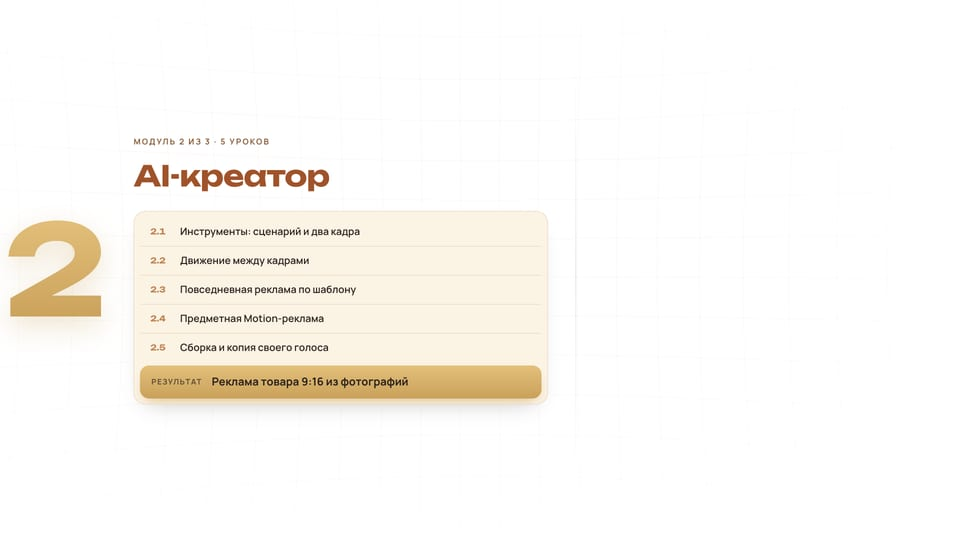
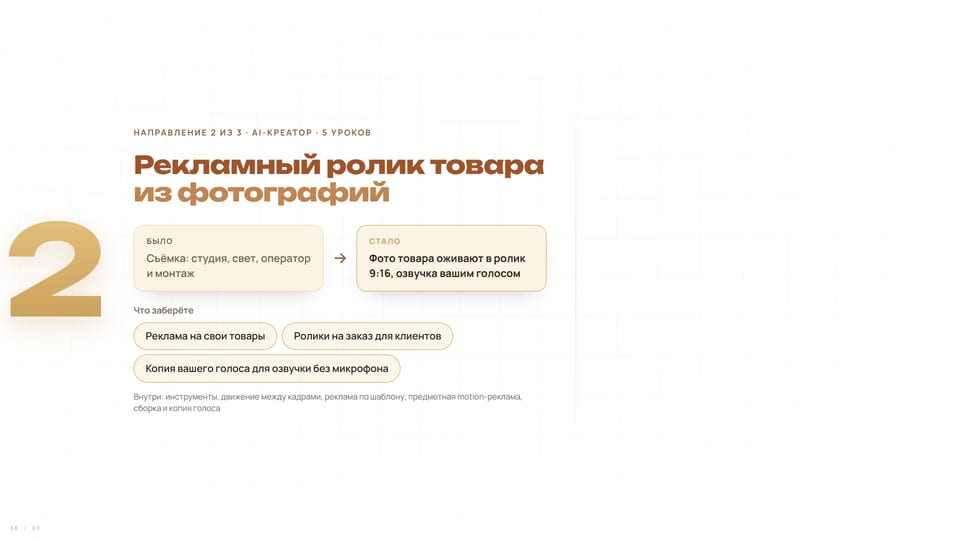
Отчёт по волне 3 и снимки изменённых слайдов
docs/reports/deck_wave3.md: сделанные шаги, проверки, что ждёт ответов Александра и запасные варианты.
Снимки 08, 09, 35, 36, 37, 37w, 53, p3i из сборки без сервера.

Changed region(s): [[0.125, 0.237, 0.5938, 0.7704]]

diff --git a/docs/reports/deck_wave3.md b/docs/reports/deck_wave3.md
@@ -1,0 +1,34 @@
+# Отчёт: волна 3 (5 октября 2026, вечер)
+
+План: `docs/tasks/deck_wave3.md`. Ветка `deck-wave2`, push не делал. localhost не запускал: проверка сборкой `WEBINAR_LOCAL=1 npx next build` и снимками `docs/deck-v2/shoot-offline.mjs` без сервера.
+
+## Сделано
+
+| Шаг | Что | Коммит | Снимок |
+|---|---|---|---|
+| 2 | 08: «1000+» без скобки. 09: «150 роликов по 10 000 ₸, мой темп 5 роликов в день». 53: чип «Разбор работ в общем чате потока». p3i: строка «Приложения и документы под свои задачи: модуль 3 Vibe Production, автоматизации на вайбкодинге.» | e31d86d | `shots/08`, `09`, `53`, `p3i` |
+| 5 | 35–37: слайды «направление» (было → стало, что заберёте, доказательство, состав уроков сноской) вместо списков уроков | 1a41b58 | `shots/35`, `36`, `37` |
+| 6 | 37w: «Что даст обучение именно вам», четыре ответа опроса и строка «Доход не обещаю» | 1a41b58 | `shots/37w` |
+
+Шаги 5 и 6 в одном коммите: один новый файл `slides/directions.tsx` и одна правка порядка в `MontageDeck.tsx`.
+
+## Проверки
+
+- `tsc --noEmit`: в `components/montage-deck` ошибок нет.
+- Сборка проходит. Один запуск из двух упал на скачивании шрифта Unbounded с Google, повтор прошёл: перед эфиром собирать заранее при работающем интернете.
+- Все 69 слайдов сняты без сервера: зона камеры чистая, текст нигде не обрезан, ошибок в консоли нет. Предупреждения только задуманные: 08 (фото уходит за край) и 14 (лента прокручивается).
+- В колоде теперь 69 слайдов: добавлен 37w, номера слайдов после него сдвинулись на один.
+
+## Ждёт ответов Александра
+
+| Шаг | Вопрос | Без ответа к 6 октября 12:00 |
+|---|---|---|
+| 1 | А1: эфир 6 октября (вторник) или 7 октября (среда)? Лендинг пишет 7-е | колода остаётся на 6-м, расхождение с лендингом записано |
+| 3 | А3: 08w, три пропуска в хронологии | шаги 3 и 5 без текста, в шаге 4 «Потом» |
+| 3 | А4: 41, дата доплаты и куда писать после эфира | «Бронь 10 000 ₸ входит в цену обучения. Остальное подскажет менеджер.» |
+| 3 | А5: 44, название рилса, диалоги и заявки | «Мой рилс: 68 комментариев с кодовым словом на 1 773 просмотра» |
+| 3 | А6: p2b, пример презентации | слайд убрать из показа |
+| 3 | А7: p3f и p3h, цифры рынка и «команда → один человек» | оба слайда убрать из показа |
+| 4 | А2: второе слово для гайдов (предложено ГАЙД) | не меняется, «МОНТАЖ» остаётся на двух действиях |
+| 7 | А8: видео практики на весь кадр со звуком или в левых 60% без звука; сам файл | слайд не добавляется |
+| 5 | А9: готовый рекламный ролик из фото для слайда 36 | слайд 36 без телефона |
